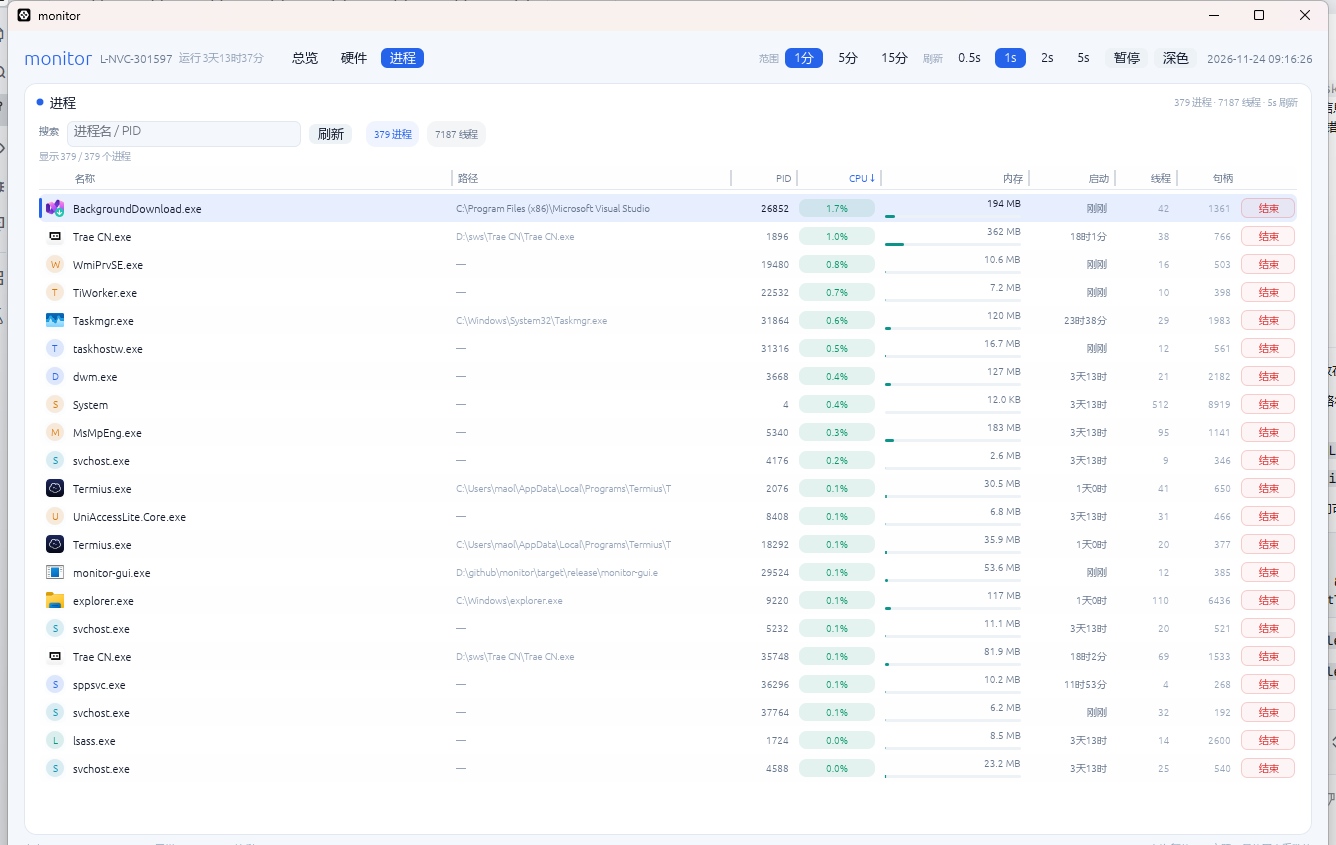
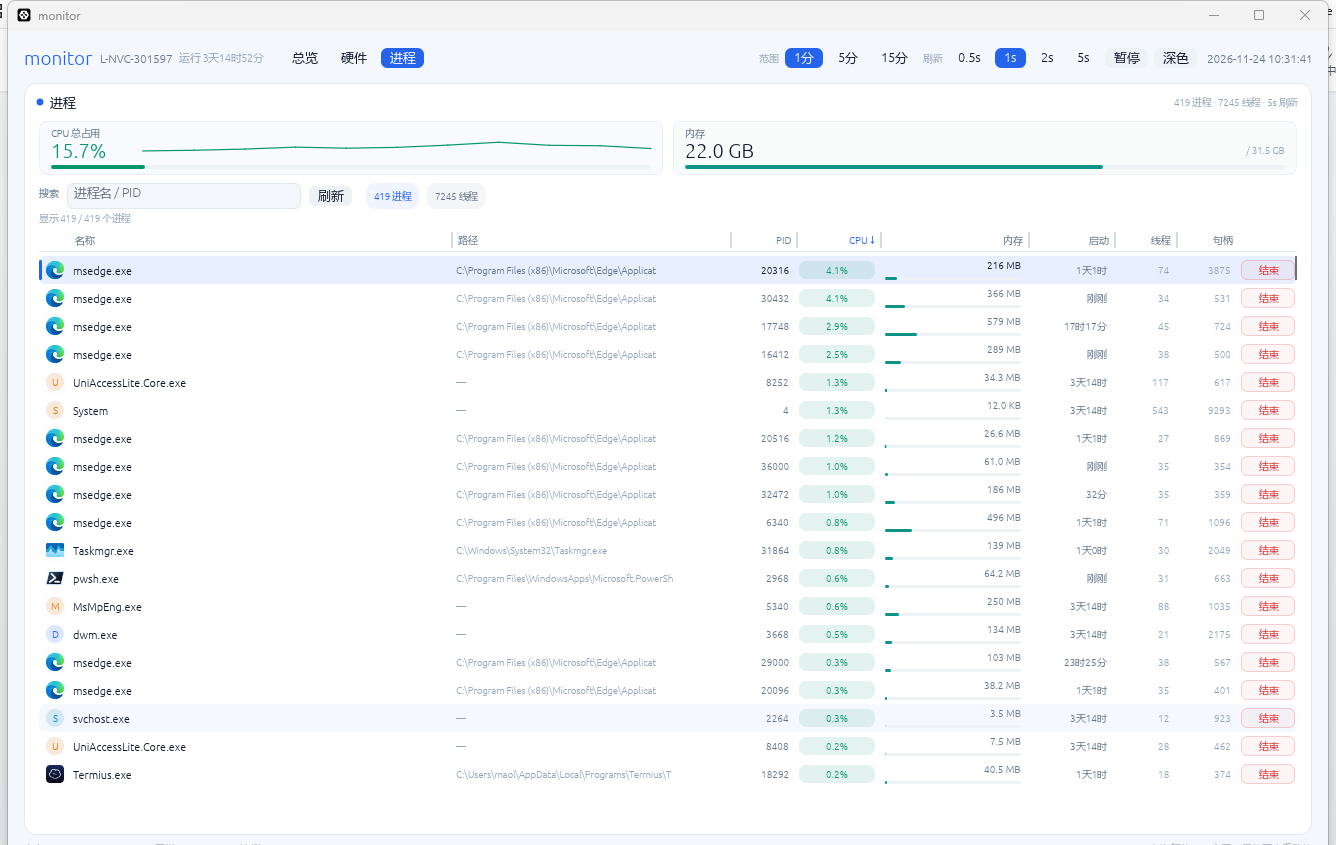
进程页增加 CPU/内存总览，美化结束确认弹窗
- 进程页顶部两张卡：CPU 总占用（60s 趋势 + 进度条）、内存已用/总量；结束进程后立即重新采样，1s 内可见下降
- 结束确认弹窗：全屏压暗，进程图标/名称/PID/路径、CPU/内存/线程 pill、数据丢失提醒，红色主按钮
- README/二期清单更新；新增进程总览与确认弹窗截图
- cargo test 68、GUI 70 passed

diff --git a/src/gui/app.rs b/src/gui/app.rs
@@ -315,6 +315,15 @@ impl Dashboard {
                 .layout(Layout::top_down(Align::Min)),
         );
         child.spacing_mut().item_spacing = vec2(8.0, 4.0);
+        let summary_rect = Rect::from_min_size(content.min, vec2(content.width(), 54.0));
+        paint_process_summary(
+            ui.painter(),
+            summary_rect,
+            theme,
+            &self.sampler.model.snap,
+            &self.sampler.model.history,
+        );
+        child.add_space(62.0);
 
         let mut refresh = false;
         let mut sort_request: Option<(ProcessSort, bool)> = None;
@@ -763,20 +772,45 @@ impl Dashboard {
         }
 
         if let Some(pid) = self.process_confirm {
-            let name = self
+            let target = self
                 .processes
                 .entries
                 .iter()
                 .find(|entry| entry.pid == pid)
+                .cloned();
+            let name = target
+                .as_ref()
                 .map(|entry| entry.name.clone())
                 .unwrap_or_else(|| format!("PID {pid}"));
+            let path = self
+                .process_paths
+                .get(&pid)
+                .and_then(|(_, path)| path.clone())
+                .or_else(|| process::image_path(pid));
+            let icon = path
+                .as_deref()
+                .and_then(|path| cached_icon(ui.ctx(), &mut self.process_icons, path));
+            let cpu = target.as_ref().map(|entry| entry.cpu_percent).unwrap_or(0.0);
+            let memory = target
+                .as_ref()
+                .map(|entry| entry.private_bytes)
+                .unwrap_or(0);
+            let threads = target.as_ref().map(|entry| entry.threads).unwrap_or(0);
             let mut confirm = false;
             let mut cancel = false;
+
+            let screen = ui.ctx().input(|input| input.viewport_rect());
+            let overlay =
+                egui::LayerId::new(egui::Order::Middle, Id::unique("monitor-kill-dim"));
+            ui.ctx()
+                .layer_painter(overlay)
+                .rect_filled(screen, 0.0, Color32::from_black_alpha(80));
+
             let dialog = egui::Frame::new()
                 .fill(theme.card)
                 .stroke(Stroke::new(1.0, theme.border))
-                .corner_radius(12.0)
-                .inner_margin(egui::Margin::symmetric(18, 14));
+                .corner_radius(14.0)
+                .inner_margin(egui::Margin::symmetric(20, 16));
             egui::Window::new("结束进程")
                 .id(Id::unique("monitor-kill-confirm"))
                 .title_bar(false)
@@ -785,42 +819,90 @@ impl Dashboard {
                 .resizable(false)
                 .anchor(Align2::CENTER_CENTER, vec2(0.0, 0.0))
                 .show(ui.ctx(), |ui| {
+                    ui.set_min_width(390.0);
                     ui.horizontal(|ui| {
-                        ui.label(RichText::new("●").size(12.0).color(theme.bad));
-                        ui.label(
-                            RichText::new("结束进程")
-                                .size(14.0)
-                                .strong()
-                                .color(theme.text),
-                        );
+                        let (icon_rect, _) =
+                            ui.allocate_exact_size(vec2(34.0, 34.0), Sense::hover());
+                        if let Some(icon) = &icon {
+                            ui.painter().image(
+                                icon.id(),
+                                icon_rect,
+                                Rect::from_min_max(pos2(0.0, 0.0), pos2(1.0, 1.0)),
+                                Color32::WHITE,
+                            );
+                        } else {
+                            paint_fallback_icon(ui.painter(), icon_rect, &name, theme);
+                        }
+                        ui.add_space(6.0);
+                        ui.vertical(|ui| {
+                            ui.label(
+                                RichText::new("结束进程")
+                                    .size(10.0)
+                                    .color(theme.bad),
+                            );
+                            ui.label(
+                                RichText::new(&name)
+                                    .size(15.0)
+                                    .strong()
+                                    .color(theme.text),
+                            );
+                            ui.label(
+                                RichText::new(format!("PID {pid}"))
+                                    .size(10.0)
+                                    .color(theme.faint),
+                            );
+                        });
                     });
-                    ui.add_space(4.0);
+                    ui.add_space(8.0);
+                    if let Some(path) = &path {
+                        ui.label(
+                            RichText::new(format::truncate(path, 62))
+                                .size(9.5)
+                                .color(theme.faint),
+                        );
+                    }
+                    ui.add_space(6.0);
+                    ui.horizontal(|ui| {
+                        stat_pill(ui, &format!("CPU {cpu:.1}%"), theme.load(cpu));
+                        stat_pill(
+                            ui,
+                            &format!("内存 {}", format::bytes(memory)),
+                            theme.memory,
+                        );
+                        stat_pill(ui, &format!("{threads} 线程"), theme.dim);
+                    });
+                    ui.add_space(8.0);
                     ui.label(
-                        RichText::new(format!("确定结束 {name}（PID {pid}）？"))
-                            .size(11.0)
-                            .color(theme.dim),
+                        RichText::new("结束后，该进程未保存的数据会丢失。")
+                            .size(10.0)
+                            .color(theme.warn),
                     );
                     ui.add_space(8.0);
                     ui.horizontal(|ui| {
-                        let end = egui::Button::new(
-                            RichText::new("结束").size(11.0).color(theme.bad),
-                        )
-                        .fill(Theme::alpha(theme.bad, 16))
-                        .stroke(Stroke::new(1.0, Theme::alpha(theme.bad, 60)));
-                        if ui.add(end).clicked() {
-                            confirm = true;
-                        }
                         if ui.button("取消").clicked() {
                             cancel = true;
                         }
+                        let end = egui::Button::new(
+                            RichText::new("结束进程").size(11.0).color(Color32::WHITE),
+                        )
+                        .fill(theme.bad)
+                        .stroke(Stroke::new(1.0, theme.bad));
+                        if ui.add_sized([150.0, 28.0], end).clicked() {
+                            confirm = true;
+                        }
                     });
                 });
+            if ui.ctx().input(|input| input.key_pressed(egui::Key::Escape)) {
+                cancel = true;
+            }
             if confirm {
                 match process::kill(pid) {
                     Ok(()) => {
                         self.process_message = Some((format!("已结束 {name}（PID {pid}）"), true));
                         self.processes = self.process_sampler.sample();
                         self.process_at = Instant::now();
+                        self.sampler.sample();
+                        self.last_sample = Instant::now();
                     }
                     Err(message) => {
                         self.process_message = Some((format!("{name}：{message}"), false));
@@ -1586,6 +1668,119 @@ fn format_age(seconds: u64) -> String {
         format!("{}时{}分", seconds / 3_600, seconds % 3_600 / 60)
     } else {
         format!("{}天{}时", seconds / 86_400, seconds % 86_400 / 3_600)
+    }
+}
+
+fn paint_process_summary(
+    painter: &Painter,
+    rect: Rect,
+    theme: &Theme,
+    snap: &Snapshot,
+    history: &History,
+) {
+    let gap = 10.0;
+    let width = (rect.width() - gap) * 0.5;
+    let cpu_rect = Rect::from_min_size(rect.min, vec2(width, rect.height()));
+    let mem_rect = Rect::from_min_size(
+        pos2(rect.left() + width + gap, rect.top()),
+        vec2(width, rect.height()),
+    );
+
+    let cpu = snap.cpu.total;
+    let cpu_color = theme.load(cpu);
+    paint_summary_tile(painter, cpu_rect, theme, theme.cpu);
+    text(
+        painter,
+        pos2(cpu_rect.left() + 12.0, cpu_rect.top() + 7.0),
+        Align2::LEFT_TOP,
+        "CPU 总占用",
+        9.5,
+        theme.dim,
+    );
+    text(
+        painter,
+        pos2(cpu_rect.left() + 12.0, cpu_rect.top() + 18.0),
+        Align2::LEFT_TOP,
+        format!("{cpu:.1}%"),
+        20.0,
+        cpu_color,
+    );
+    let spark = Rect::from_min_max(
+        pos2(cpu_rect.left() + 104.0, cpu_rect.top() + 9.0),
+        pos2(cpu_rect.right() - 12.0, cpu_rect.top() + 31.0),
+    );
+    paint_sparkline(painter, spark, history.cpu.slice(), 100.0, cpu_color);
+    let bar = Rect::from_min_size(
+        pos2(cpu_rect.left() + 12.0, cpu_rect.bottom() - 10.0),
+        vec2(cpu_rect.width() - 24.0, 4.0),
+    );
+    chart::hbar(painter, bar, cpu / 100.0, cpu_color, theme.grid);
+
+    let memory = &snap.memory;
+    paint_summary_tile(painter, mem_rect, theme, theme.memory);
+    text(
+        painter,
+        pos2(mem_rect.left() + 12.0, mem_rect.top() + 7.0),
+        Align2::LEFT_TOP,
+        "内存",
+        9.5,
+        theme.dim,
+    );
+    text(
+        painter,
+        pos2(mem_rect.left() + 12.0, mem_rect.top() + 18.0),
+        Align2::LEFT_TOP,
+        format::bytes(memory.used()),
+        20.0,
+        theme.text,
+    );
+    text(
+        painter,
+        pos2(mem_rect.right() - 12.0, mem_rect.top() + 24.0),
+        Align2::RIGHT_TOP,
+        format!(" / {}", format::bytes(memory.total)),
+        9.5,
+        theme.faint,
+    );
+    let bar = Rect::from_min_size(
+        pos2(mem_rect.left() + 12.0, mem_rect.bottom() - 10.0),
+        vec2(mem_rect.width() - 24.0, 4.0),
+    );
+    chart::hbar(
+        painter,
+        bar,
+        memory.percent() / 100.0,
+        theme.memory,
+        theme.grid,
+    );
+}
+
+fn paint_summary_tile(painter: &Painter, rect: Rect, theme: &Theme, accent: Color32) {
+    painter.rect_filled(rect, CornerRadius::same(8), Theme::alpha(accent, 8));
+    painter.rect_stroke(
+        rect,
+        CornerRadius::same(8),
+        Stroke::new(1.0, Theme::alpha(theme.border, 160)),
+        StrokeKind::Inside,
+    );
+}
+
+fn paint_sparkline(painter: &Painter, rect: Rect, values: &[f32], max: f32, color: Color32) {
+    let visible = values.len().saturating_sub(60);
+    let values = &values[visible..];
+    if values.len() < 2 || rect.width() < 8.0 {
+        return;
+    }
+    let mut previous = None;
+    for (index, value) in values.iter().enumerate() {
+        let x = rect.left()
+            + rect.width() * index as f32 / (values.len() - 1) as f32;
+        let y = rect.bottom() - rect.height() * (value / max).clamp(0.0, 1.0);
+        let point = pos2(x, y);
+        if let Some(previous) = previous {
+            painter.line_segment([previous, point], Stroke::new(1.2, color));
+        }
+        previous = Some(point);
     }
 }
 

diff --git a/README.md b/README.md
@@ -211,9 +211,13 @@ monitor-gui --processes                  # 直接打开进程页
 
 ![硬件页（含 GPU）](docs/gui-hardware.png)
 
-`进程` 页每 5 秒采样一次，列出**真实 exe 图标**、名称、路径、PID、CPU、私有内存、启动时长、线程、句柄。CPU 用热度色药丸、内存带迷你条；点击整行有高亮选中效果，悬停有浮起反馈；**拖动表头分隔线可调整列宽**；表头可排序、搜索框按名称/PID 过滤，行末「结束」带二次确认：
+`进程` 页每 5 秒采样一次，列出**真实 exe 图标**、名称、路径、PID、CPU、私有内存、启动时长、线程、句柄。顶部新增 **CPU 总占用（带 60 秒趋势）** 与 **内存总量/已用** 两张总览卡，结束进程后 1 秒内即可看到资源下降。CPU 用热度色药丸、内存带迷你条；点击整行有高亮选中效果，悬停有浮起反馈；**拖动表头分隔线可调整列宽**；表头可排序、搜索框按名称/PID 过滤，行末「结束」带二次确认：
 
 ![进程页](docs/gui-process.png)
+
+结束确认弹窗会压暗背景，显示进程图标、路径、CPU、内存、线程数和数据丢失提醒，危险按钮使用红色主操作：
+
+![结束进程确认](docs/gui-kill-dialog.png)
 
 图标走 Windows Shell（`SHGetFileInfoW`）+ GDI 转 RGBA 纹理，按 exe 路径缓存；受保护进程拿不到路径时退化为彩色首字母徽章，不会阻塞列表。
 

diff --git a/docs/二期任务清单.md b/docs/二期任务清单.md
@@ -93,6 +93,8 @@
   - 真实 exe 图标：`SHGetFileInfoW` 取 `HICON`，GDI 转 32-bit RGBA 后上传 egui texture；按 exe 路径缓存，路径查询失败用彩色首字母徽章
   - 点击整行选中高亮 + 左侧 accent 条，悬停有轻高亮；CPU 热度色药丸、内存迷你条、路径列
   - 表头分隔线可拖动调整相邻列宽（总宽不变，窗口缩放时按比例适配）
+  - 顶部 CPU 总占用 / 内存总览卡，带 60 秒 CPU 趋势与总量条；结束进程后 1 秒刷新
+  - 结束确认弹窗压暗背景，显示图标、路径、CPU/内存/线程和数据丢失提醒
 - [x] 测试：进程列表合理性、CPU% 有限性、拒绝结束 Idle
 
 **实测**：本机约 380 进程 / 6700 线程；CPU/内存/线程/句柄与任务管理器同量级；结束 `cmd/ping` 子进程成功，结束 System（PID 4）返回"拒绝访问"；进程页图标、选中、搜索、排序均已在 GUI 实测。
